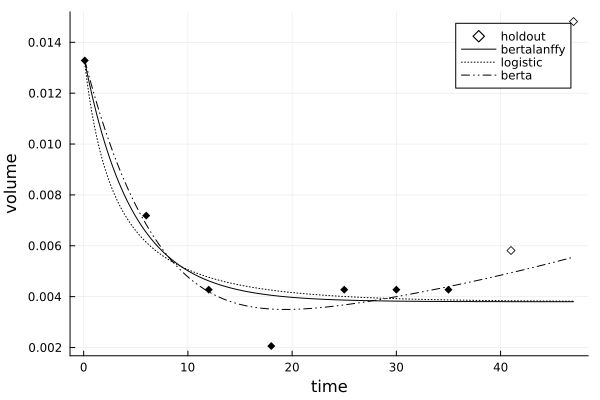
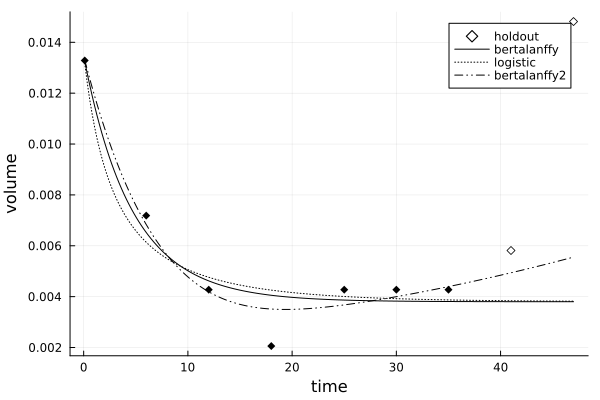
update figure; n_holdout -> holdouts

Changed region(s): [[0.72, 0.06, 0.96, 0.21]]

diff --git a/docs/src/quick_start.md b/docs/src/quick_start.md
@@ -43,7 +43,7 @@ bertalanffy(extended_times, p)
 And compare several models on a holdout set:
 
 ```@example overview
-comparison = compare(times, volumes, [bertalanffy, logistic, bertalanffy2], n_holdout=2)
+comparison = compare(times, volumes, [bertalanffy, logistic, bertalanffy2], holdouts=2)
 ```
 
 ```julia
